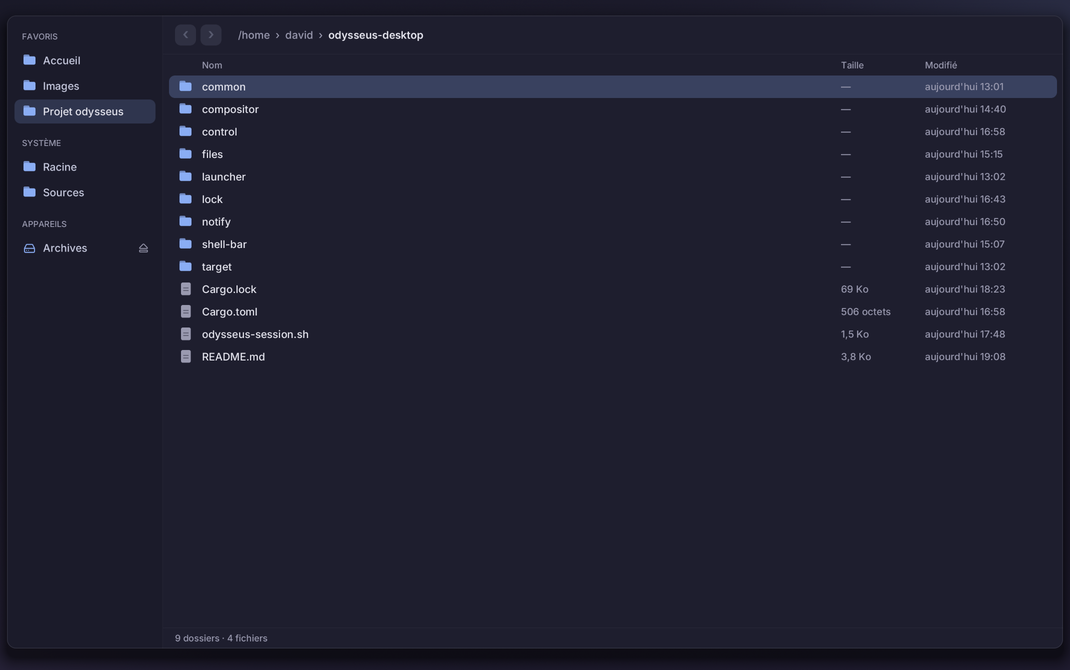
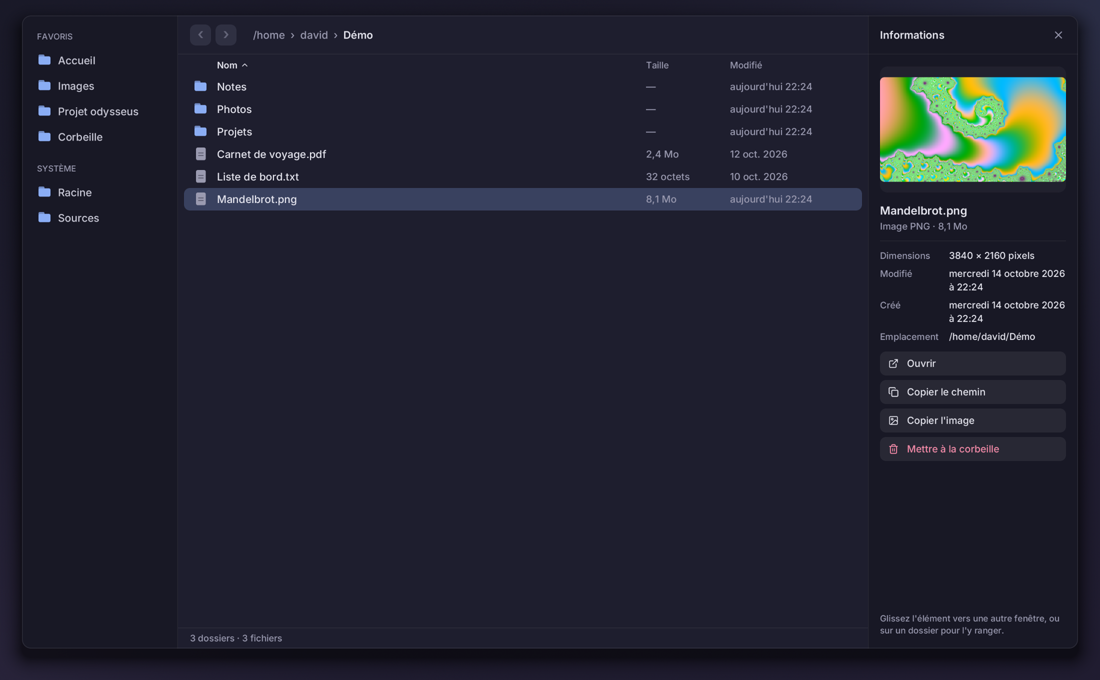
README et captures à jour
Nouvelles captures (fond dégradé et données de démonstration) : bureau
avec Fichiers et son panneau d informations, centre de contrôle avec
Apparence, centre de notifications, moniteur système, aide-mémoire des
raccourcis, comparaison des trois thèmes. README : barre, compositeur
(coin actif, glisser-déposer, data-control), thèmes, dépendances système,
commandes.

Claude-Session: https://claude.ai/code/session_01MrKJ5RoiFoHm7qLZhYo5pA

diff --git a/README.md b/README.md
@@ -16,15 +16,27 @@ Bureau Wayland personnel en Rust : rapide, sobre, inspiré de macOS sans le copi
 
 ## Aperçu
 
-![Bureau : Fichiers, barre et notifications](docs/captures/bureau.png)
+![Bureau : Fichiers avec son panneau d'informations, notifications](docs/captures/bureau.png)
 
 | Centre de contrôle | Centre de notifications |
 |---|---|
 | ![Centre de contrôle](docs/captures/centre-controle.png) | ![Centre de notifications](docs/captures/centre-notifications.png) |
 
-| Lanceur (Super+Espace) | Fichiers |
+| Moniteur système |
+|---|
+| ![Moniteur système](docs/captures/moniteur.png) |
+
+| Fichiers (tri, panneau d'informations) | Lanceur (Super+Espace) |
 |---|---|
-| ![Lanceur](docs/captures/lanceur.png) | ![Fichiers](docs/captures/fichiers.png) |
+| ![Fichiers](docs/captures/fichiers.png) | ![Lanceur](docs/captures/lanceur.png) |
+
+| Aide-mémoire des raccourcis (Super+K) |
+|---|
+| ![Raccourcis](docs/captures/raccourcis.png) |
+
+| Thèmes : Odyssée bleue, sombre et claire |
+|---|
+| ![Thèmes](docs/captures/themes.png) |
 
 | Aperçu (visionneuse d'images) |
 |---|
@@ -32,16 +44,17 @@ Bureau Wayland personnel en Rust : rapide, sobre, inspiré de macOS sans le copi
 
 ![Écran de verrouillage](docs/captures/verrou.png)
 
-*Captures faites par le compositeur lui-même (Impr. écran), en 4K à l'échelle 1,5,
-avec le fond d'écran dégradé par défaut. Notifications et disque « Archives » de démonstration ;
-l'image ouverte dans Aperçu est une fractale de Mandelbrot générée par FFmpeg.*
+*Captures faites par le compositeur lui-même, en 4K à l'échelle 1,5, avec un fond
+dégradé de démonstration. Notifications, dossier « Démo » et disque « Archives » de
+démonstration ; les images sont des fractales de Mandelbrot générées par FFmpeg. Dans
+la barre, l'icône du panneau ouvert est en surbrillance.*
 
 | Dossier | Rôle | État |
 |---|---|---|
 | `common/` | Thème (couleurs, grille de 4 px, typographie) et dessin logiciel partagé (`draw`) | base |
-| `compositor/` | Compositeur Smithay : fenêtres arrondies + ombres, animations (ouverture, fermeture, glissement entre bureaux, trajets d'aimantation), aimantation des fenêtres, bureaux 1–9, IPC compatible sway, backends winit et DRM | fonctionne (imbriqué et sur tty) |
-| `shell-bar/` | Barre du haut : bureaux (clic, molette) ; à droite le centre de contrôle, la date et l'heure | fonctionne sous sway et odysseus |
-| `notify/` | `odysseus-notify` : notifications (D-Bus standard), bannières, centre de notifications avec calendrier, « Ne pas déranger », indicateur de volume | fonctionne |
+| `compositor/` | Compositeur Smithay : fenêtres arrondies + ombres, animations (ouverture, fermeture, glissement entre bureaux, trajets d'aimantation), aimantation des fenêtres, bureaux 1–9, coin actif (haut droit : notifications), glisser-déposer entre applications, presse-papiers accessible en ligne de commande (data-control), captures d'écran, lumière de nuit, IPC compatible sway, backends winit et DRM | fonctionne (imbriqué et sur tty) |
+| `shell-bar/` | Barre du haut : bureaux (clic, molette) ; à droite moniteur (jauge colorée selon la charge), aide-mémoire, centre de contrôle, cloche des notifications (point : non vues), date et heure ; l'icône du panneau ouvert est en surbrillance | fonctionne sous sway et odysseus |
+| `notify/` | `odysseus-notify` : notifications (D-Bus standard), bannières, centre de notifications avec calendrier (cloche, heure ou coin actif), « Ne pas déranger », indicateur de volume | fonctionne |
 | `control/` | `odysseus-control` : centre de contrôle ; `odysseus-raccourcis` : aide-mémoire des raccourcis ; (Wi-Fi via iwd, Bluetooth via BlueZ, Ethernet, lumière de nuit, apparence (thèmes Odyssée bleue, sombre et claire, appliqués à chaud à tout le bureau), son via PipeWire, veille, verrouiller, redémarrer, éteindre) | fonctionne |
 | `lock/` | `odysseus-lock` : écran de verrouillage (ext-session-lock, PAM) | fonctionne |
 | `launcher/` | Lanceur façon Spotlight (Mod+Espace) | fonctionne |
@@ -68,10 +81,14 @@ l'image ouverte dans Aperçu est une fractale de Mandelbrot générée par FFmpe
 | Mod+l | verrouiller |
 | Mod+k (ou l'icône clavier de la barre) | aide-mémoire des raccourcis |
 | touches Volume +/−, Muet | volume (avec indicateur) |
-| clic sur les icônes de la barre | centre de contrôle |
+| icônes de la barre (de gauche à droite) | moniteur système, aide-mémoire, centre de contrôle |
 | cloche de la barre, clic sur l'heure, ou souris dans le coin en haut à droite | centre de notifications (point sur la cloche : notifications non vues) |
 | Ctrl+Alt+F1…F12 | changer de tty |
 | Mod+Maj+e | quitter |
+
+Thèmes : Odyssée bleue (par défaut), sombre et claire, choisis dans le centre de
+contrôle (Apparence) et appliqués à chaud à tout le bureau ; le choix est gardé dans
+`~/.config/odysseus/theme`.
 
 Écran : branché à chaud (ODYSSEUS_OUTPUT est l'écran préféré, sinon le premier
 connecté). Par IPC (`SWAYSOCK`) : `output scale 1.25`, `output mode 2560x1440@60`,
@@ -107,6 +124,8 @@ Inactivité : l'écran s'éteint et la session se verrouille au bout de 10 min
     odysseus-notify --send "Titre" "Texte"   # notification d'essai
     odysseus-notify --dnd toggle             # « Ne pas déranger »
     odysseus-control --vue wifi              # centre de contrôle, vue Wi-Fi
+    odysseus-notify --center [show]          # centre de notifications (bascule, ou ouvre)
+    odysseus-moniteur                        # moniteur système (bascule)
 
     cargo build --release          # tout compiler
     cargo run -p shell-bar         # lancer la barre (depuis un terminal dans sway)
@@ -115,6 +134,13 @@ Inactivité : l'écran s'éteint et la session se verrouille au bout de 10 min
 Pour lancer la barre au démarrage de sway, ajouter dans `~/.config/sway/config` :
 
     exec ~/odysseus-desktop/target/release/shell-bar
+
+## Dépendances système
+
+Au-delà de Smithay et des bibliothèques Wayland : PipeWire et WirePlumber (son),
+iwd (Wi-Fi), BlueZ (Bluetooth), logind et polkit (veille, arrêt), PAM (verrou),
+wl-clipboard (`wl-copy` / `wl-paste`), librsvg (icônes SVG), hwdata (nom de la carte
+graphique). Températures : `k10temp` (processeur AMD) et `amdgpu`.
 
 ## Licence
 
